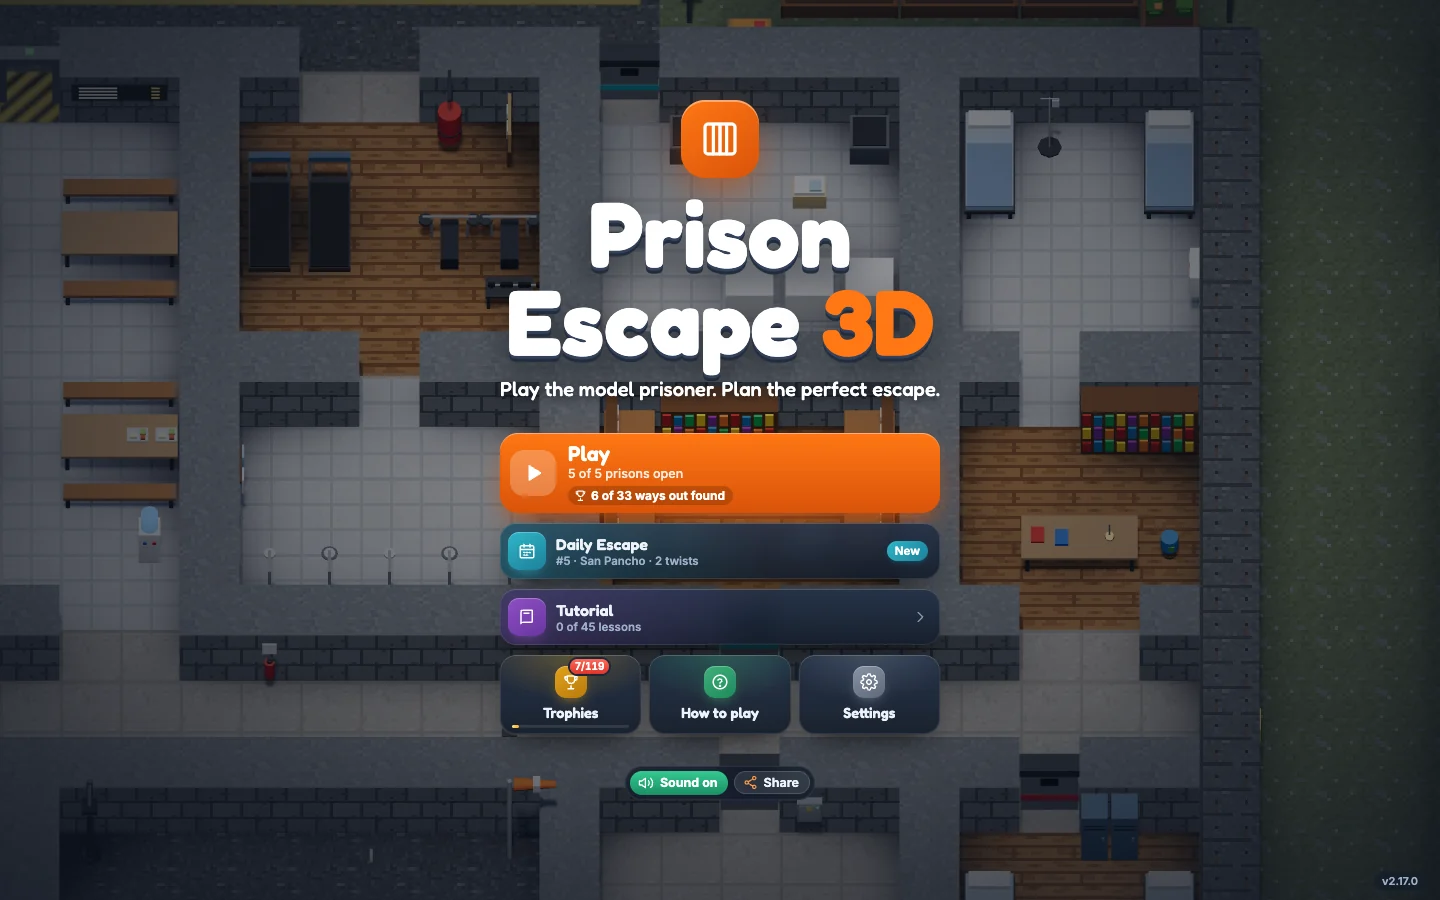
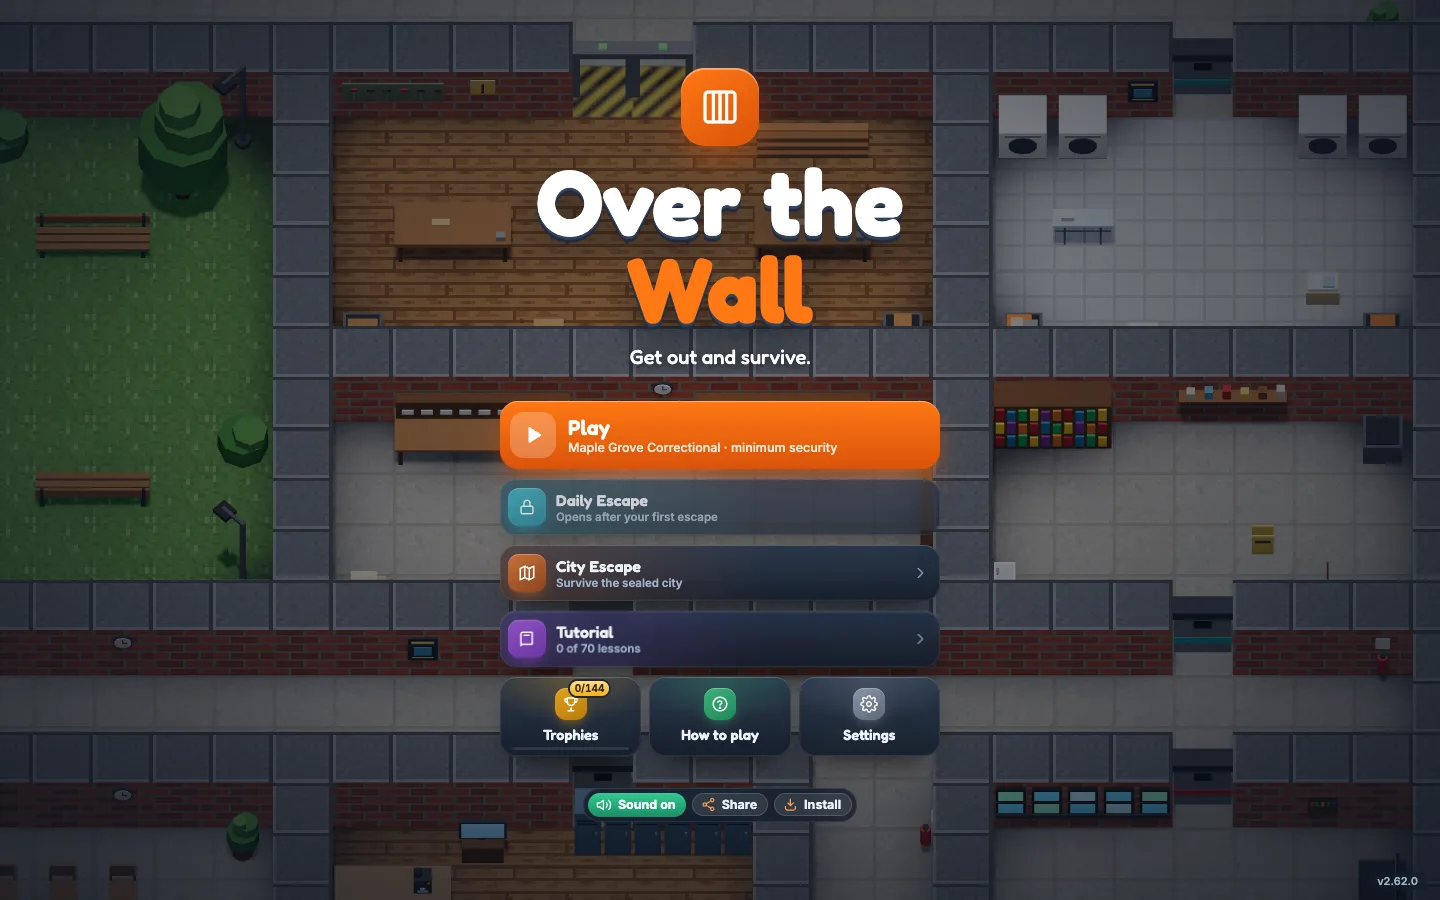
The game named Over the Wall, tagline "Get out and survive." (Sors et survis.): title, loading screen, page title, installed name, shares, README, its title picture retaken; the repo, address and storage keep the old name (101 tests green)

diff --git a/assets/maps/index.html b/assets/maps/index.html
@@ -4,7 +4,7 @@
 <meta charset="utf-8">
 <meta name="viewport" content="width=device-width, initial-scale=1, viewport-fit=cover">
 <title>Prison Map Viewer</title>
-<meta name="description" content="Every Prison Escape 3D prison drawn from its data: pan, zoom, inspect any tile, read its ways out and rules, turn on overlays and leave notes.">
+<meta name="description" content="Every Over the Wall prison drawn from its data: pan, zoom, inspect any tile, read its ways out and rules, turn on overlays and leave notes.">
 <style>
 :root {
   color-scheme: light;
@@ -481,7 +481,7 @@ button.sheet-row b::after { content: " ↗"; color: var(--muted); font-weight: 4
       </div>
       <div>
         <div class="brand-title">Prison Map Viewer</div>
-        <div class="brand-sub">Prison Escape 3D · drawn from the game's data</div>
+        <div class="brand-sub">Over the Wall · drawn from the game's data</div>
       </div>
       <span class="chip" id="version">v—</span>
     </div>
@@ -980,7 +980,7 @@ button.sheet-row b::after { content: " ↗"; color: var(--muted); font-weight: 4
   document.querySelectorAll('input[name=scope]').forEach((r) => r.addEventListener('change', () => { st.scope = r.value; renderNoteList(); }));
 
   function markdown() {
-    const lines = [`# Map notes — Prison Escape 3D v${D.version}`, ''];
+    const lines = [`# Map notes — Over the Wall v${D.version}`, ''];
     for (const p of D.prisons) {
       const mine = notes.filter((n) => n.prison === p.id);
       if (!mine.length) continue;

diff --git a/index.html b/index.html
@@ -4,13 +4,13 @@
     <meta charset="UTF-8" />
     <meta name="viewport" content="width=device-width, initial-scale=1.0, maximum-scale=1.0, user-scalable=no, viewport-fit=cover" />
     <meta name="theme-color" content="#1b2230" />
-    <title>Prison Escape 3D</title>
+    <title>Over the Wall</title>
     <link rel="icon" href="./favicon.svg" type="image/svg+xml" />
     <link rel="apple-touch-icon" href="./apple-touch-icon.png" />
     <link rel="manifest" href="./manifest.webmanifest" />
     <meta name="mobile-web-app-capable" content="yes" />
     <meta name="apple-mobile-web-app-capable" content="yes" />
-    <meta name="apple-mobile-web-app-title" content="Escape 3D" />
+    <meta name="apple-mobile-web-app-title" content="Over the Wall" />
     <link rel="preconnect" href="https://fonts.googleapis.com" />
     <link rel="preconnect" href="https://fonts.gstatic.com" crossorigin />
     <!-- The fonts and the game's styles don't hold up the first paint: the loading screen below shows at once (v2.34.2). -->
@@ -109,7 +109,7 @@
     </style>
   </head>
   <body>
-    <div id="boot" aria-busy="true"><h1>Prison Escape <span>3D</span></h1><i></i><p aria-hidden="true"></p></div>
+    <div id="boot" aria-busy="true"><h1>Over the <span>Wall</span></h1><i></i><p aria-hidden="true"></p></div>
     <script>
       // The loading screen's lines, while the game downloads: written here (the game's text, src/i18n/,
       // isn't in yet), in its two languages. One every 2.2 s, from a random one; they stop with the screen.

diff --git a/scripts/dev/trailertitles.ts b/scripts/dev/trailertitles.ts
@@ -233,8 +233,8 @@ function logo(g: CanvasRenderingContext2D, t: number, t0: number) {
     heavy(
       g,
       [
-        { text: 'Prison Escape ', color: '#ffffff' },
-        { text: '3D', color: ORANGE },
+        { text: 'Over the ', color: '#ffffff' },
+        { text: 'Wall', color: ORANGE },
       ],
       0,
       0,
@@ -259,7 +259,7 @@ function frameAt(g: CanvasRenderingContext2D, lang: Lang, f: number, marks: Reco
   paLine(g, L['pa.hello.maple-grove.0'], t);
 
   // 2. The model prisoner (the tagline's first half), across the day.
-  const [first, second] = L['title.tagline'].split(/(?<=\.)\s+/);
+  const [first, second = ''] = L['title.tagline'].split(/(?<=\.)\s+/);
   {
     const t0 = marks.rollcall.at + 0.15;
     const t1 = marks.turn.at - 0.05;

diff --git a/assets/models/index.html b/assets/models/index.html
@@ -3,7 +3,7 @@
 <head>
   <meta charset="utf-8" />
   <meta name="viewport" content="width=device-width, initial-scale=1" />
-  <title>Prison Escape 3D — 3D Objects Studio</title>
+  <title>Over the Wall — 3D Objects Studio</title>
   <link rel="icon" href="/icon.svg" type="image/svg+xml" />
   <style>
     :root,
@@ -985,7 +985,7 @@
     <header class="topbar">
       <div class="brand">
         <div class="brand-cube">3D</div>
-        <span>Prison Escape 3D · Objects Studio</span>
+        <span>Over the Wall · Objects Studio</span>
         <span class="brand-sub">Procedural Kit &amp; Game Model Library</span>
       </div>
 

diff --git a/src/ui/screens/title.ts b/src/ui/screens/title.ts
@@ -45,7 +45,7 @@ export function showTitle(info: TitleInfo, click: () => void): Promise<TitleChoi
     'div',
     'title-screen',
     `<div class="title-inner">
-      <div class="logo"><div class="logo-mark">${icon('bars', 40)}</div><h1>Prison Escape <span>3D</span></h1><p class="tagline">${t('title.tagline')}</p></div>
+      <div class="logo"><div class="logo-mark">${icon('bars', 40)}</div><h1>Over the <span>Wall</span></h1><p class="tagline">${t('title.tagline')}</p></div>
       <div class="title-actions">
         ${
           info.resume

diff --git a/src/ui/screens/daily.ts b/src/ui/screens/daily.ts
@@ -27,7 +27,7 @@ function shareText(
   streak: number,
 ): string {
   return [
-    `Prison Escape 3D · ${t('daily.name', { n: n + 1 })}`,
+    `Over the Wall · ${t('daily.name', { n: n + 1 })}`,
     `${best.medal ? `${t(`medal.${best.medal}` as Key)} · ` : ''}${t('hud.day', { n: best.day })} · ${t(best.tries === 1 ? 'daily.tries1' : 'daily.tries', { n: best.tries })}`,
     best.strip.map((k) => STRIP_EMOJI[k]).join(''),
     `${streak > 1 ? `${t('daily.streak', { n: streak })} · ` : ''}${t('daily.check', { code: best.code })}`,

diff --git a/src/ui/screens/share.ts b/src/ui/screens/share.ts
@@ -56,7 +56,7 @@ export function showShare(click: () => void): Promise<void> {
     const send = async () => {
       try {
         if (sheet) {
-          await navigator.share({ title: 'Prison Escape 3D', text: t('title.tagline'), url: GAME_URL });
+          await navigator.share({ title: 'Over the Wall', text: t('title.tagline'), url: GAME_URL });
           label.textContent = t('share.shared');
           return;
         }

diff --git a/src/i18n/fr.ts b/src/i18n/fr.ts
@@ -2,7 +2,7 @@ import type { Strings } from './en';
 
 /** French (tu, friendly). Typographic spaces before ! ? : ; are narrow no-break spaces. */
 export const fr: Partial<Strings> = {
-  "title.tagline": "Joue le détenu modèle. Prépare l’évasion parfaite.",
+  "title.tagline": "Sors et survis.",
   "title.play": "Jouer",
   "title.prison": "{name} · {security}",
   "security.1": "sécurité minimale",

diff --git a/src/i18n/en.ts b/src/i18n/en.ts
@@ -3,7 +3,7 @@
  * filled by t(); `%KeyW%` prints the label of the key at W's place on this keyboard.
  */
 export const en = {
-  "title.tagline": "Play the model prisoner. Plan the perfect escape.",
+  "title.tagline": "Get out and survive.",
   "title.play": "Play",
   "title.prison": "{name} · {security}",
   "security.1": "minimum security",

diff --git a/scripts/dev/modelviewer/catalog.ts b/scripts/dev/modelviewer/catalog.ts
@@ -63,7 +63,7 @@ export const LIBRARIES: CatalogLibraryInfo[] = [
   },
   {
     id: 'game',
-    name: 'Prison Escape 3D',
+    name: 'Over the Wall',
     badge: 'GAME',
     description: 'All 3D models built by the game in src/render/* and src/content/*.',
   },

diff --git a/docs/history/v2.60-v2.64.md b/docs/history/v2.60-v2.64.md
@@ -124,3 +124,20 @@ and what was accepted as it is. From 2.35 a file holds five minor versions.
     install page; a version-2 device's record and best replay moved to the new id on load; console clean.
   - **Not checked:** played by a person; the trailer (YouTube) still shows the old names; the git history
     and the old public site still hold them; no trademark search; the French read by a native speaker.
+- **The game named Over the Wall (v2.63.0, not released yet)**, the user's request (2026-11-18:
+  "go with Over the Wall and that tagline").
+  - **Choices:** the user's: the name, and "Get out and survive." for the tagline (it names both modes:
+    the prisons, then City Escape). Claude's, told to the user: the French keeps the English name, its
+    tagline "Sors et survis." (the game says tu); the repo, the address, the `pe3d.` storage prefix and
+    the package keep the old name, so saves and installed copies carry on.
+  - **Built:** the title screen's and the loading screen's logo ("Over the" white, "Wall" orange), the
+    page title, the installed app's name (manifest, iOS), the share and the Daily's share text, the
+    tagline in both languages; the README, `FEATURES.md`, the map viewer's and the objects studio's
+    labels; the trailer titles tool for a new cut.
+  - **Seen in the browser:** the title at 1440×900 (the logo on two lines), 915×412 and 412×915 in French
+    (one line), nothing overflowing, console clean. The README's title picture retaken: it was from 2.17
+    and still showed an old prison's name, which 2.62 had missed.
+  - **Found:** a first web search (2026-11-18) found no game of that exact name; "OverWall" (Steam,
+    2022) is the nearest; one dead US mark "OTW" of a company of that name.
+  - **Not checked:** a real trademark search (US, EU); the trailer and the README's video still show the
+    old name; the icons carry no text, so nothing changed there.

diff --git a/docs/decisions/prisons.md b/docs/decisions/prisons.md
@@ -5,7 +5,7 @@ What each prison has and where: maps, rooms, themes, the grounds. Where the desi
 | Topic | tech_plan.md | Decision (GDD) |
 |---|---|---|
 | Campaign | One map (Maple Grove) | **5 prisons**: Maple Grove, Camp Frostberg, Gravel Point, Sierra Seca, HMP Gull Rock; since 2.36 a sixth past them, **the Six Hunter** (below) |
-| Names (2.62) | The GDD and the tech plan named the game, its prisons and some items after another game | **Every name is the game's own** (the user, 2026-11-18): the five prisons, their people, six items and the ids renamed (`history/v2.60-v2.64.md`); the GDD renamed `game_design_document.md` and its mentions of that game reworded, the only edit to `docs/source/`. Old saves and logs take the new ids (`renamed.ts`) |
+| Names (2.62) | The GDD and the tech plan named the game, its prisons and some items after another game | **Every name is the game's own** (the user, 2026-11-18): the five prisons, their people, six items and the ids renamed (`history/v2.60-v2.64.md`); the GDD renamed `game_design_document.md` and its mentions of that game reworded, the only edit to `docs/source/`. Old saves and logs take the new ids (`renamed.ts`). The game itself is **Over the Wall** from 2.63 ("Get out and survive."); the repo and the code keep the old name |
 | L1 detectors | Cell block, Canteen, Gym, Laundry, Woodshop, Metalshop | **Canteen and Woodshop only** (the L1 cell block is unscanned) |
 | L1 rooms | No Infirmary | **Infirmary** present (the player wakes there after a KO by an inmate) |
 | L1 towers / perimeter | 4 towers, fully electric | **2 towers** (south). Chain-link on N/E/W, electric only at the south gate |
